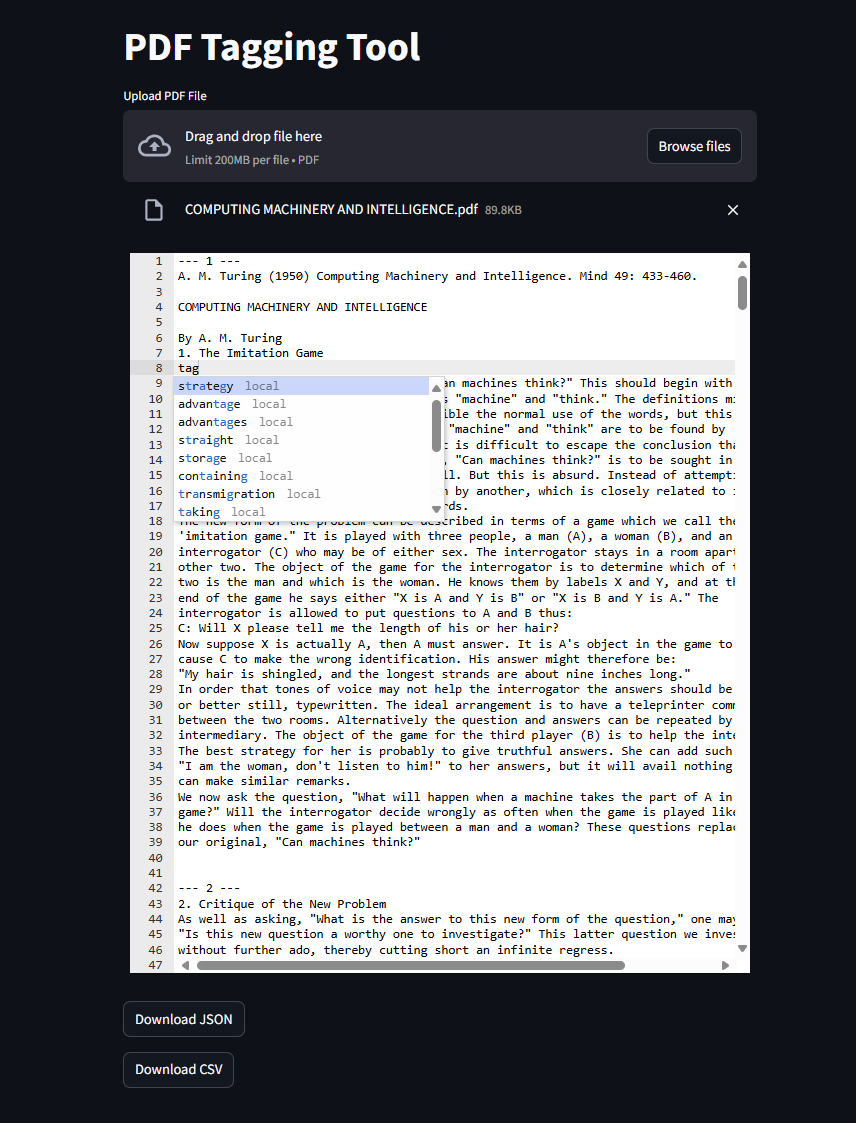
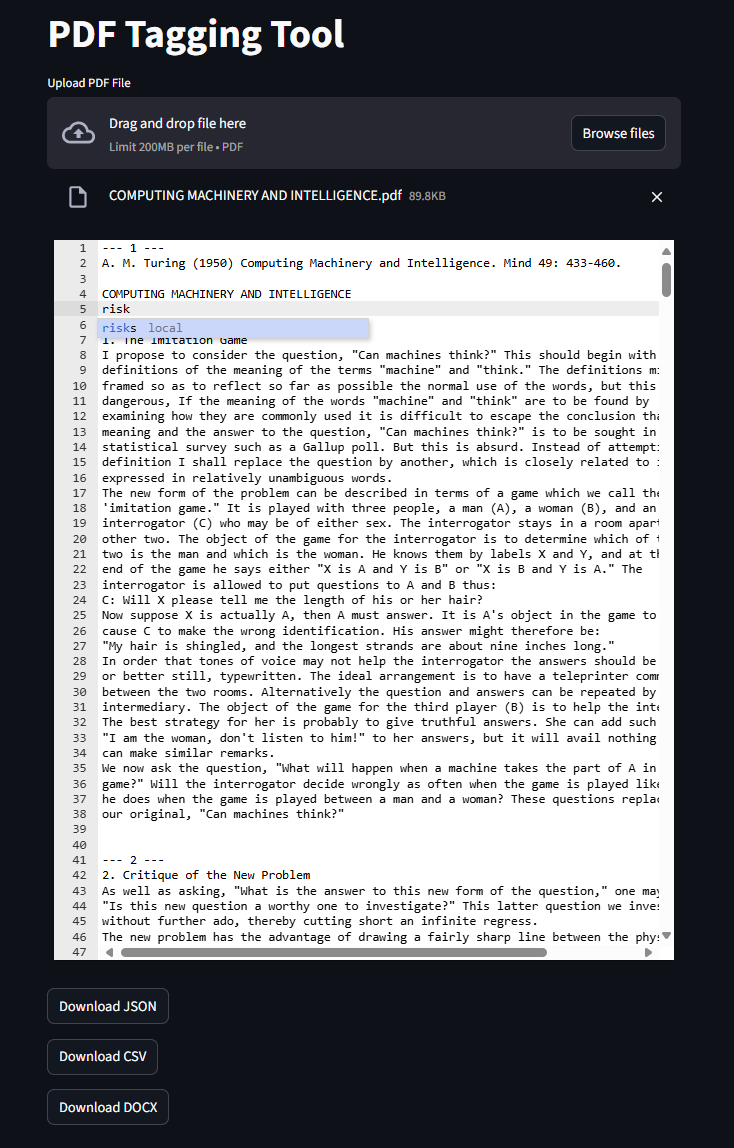
update README

diff --git a/README.md b/README.md
@@ -1,6 +1,6 @@
 ### PDF Tagging Tool
 
-This is a lightweight **Streamlit web application** for uploading and tagging PDF documents. Ideal for auditors, reviewers, or analysts who want to annotate and export text sections in JSON or CSV formats.
+This is a lightweight **Streamlit web application** for uploading and tagging PDF documents. Ideal for auditors, reviewers, or analysts who want to annotate and export text sections in JSON, CSV or DOCX formats.
 
 ---
 
@@ -36,6 +36,7 @@ streamlit run streamlit_app.py
 
   * **JSON** (structured page-wise)
   * **CSV** (rows: page\_number, text)
+  * **DOCX** (editable Word document)
 
 ---
 
